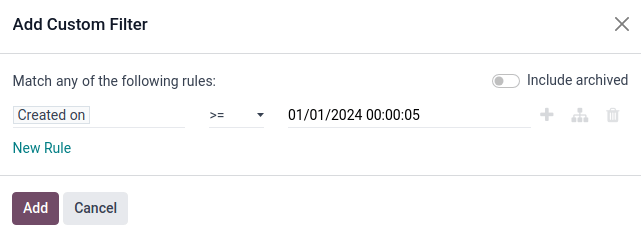
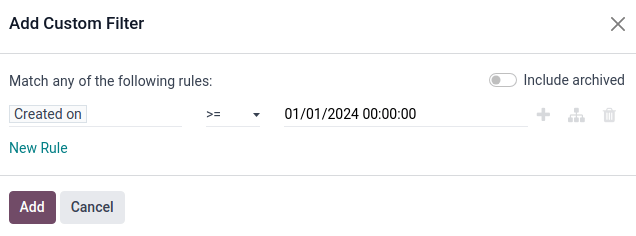
fixed for 17.0

diff --git a/content/applications/sales/crm/track_leads/lead_distribution_report.rst b/content/applications/sales/crm/track_leads/lead_distribution_report.rst
@@ -3,9 +3,8 @@ Lead distribution report
 ========================
 
 A *lead distribution report* can be used to see if active leads are being assigned equitably
-across sales members, view the distribution of good or `quality leads <https://www.odoo.com/
-documentation/17.0/applications/sales/crm/track_leads/quality_leads_report.html>`_, and see how
-frequently each salesperson is receiving (and keeping) leads.
+across sales members. It can also be used to view the distribution of good or :doc:`quality leads
+<quality_leads_report>`, and see how frequently each salesperson is receiving (and keeping) leads.
 
 Lead distribution reports can be run each week to help keep salespeople on track, while
 providing them with ample good leads. These reports can also be used to see whether sales members
@@ -25,25 +24,25 @@ Custom filters can now be added by clicking the :icon:`fa-caret-down` :guilabel:
 icon, to the right of the :guilabel:`Search...` bar, to reveal a drop-down menu of search and filter
 options.
 
-Three columns will be displayed: :guilabel:`Filters`, :guilabel:`Group By`, and
+Three columns are displayed: :guilabel:`Filters`, :guilabel:`Group By`, and
 :guilabel:`Favorites`.
 
 .. image:: lead_distribution_report/filters-dropdown.png
-   :align: center
-   :alt: Clicking the dropdown arrow in the search bar will display filters, groups, and favorites.
+  :align: center
+  :alt: Clicking the dropdown arrow in the search bar will display filters, groups, and favorites.
 
 To begin, navigate to the bottom of the :guilabel:`Filters` column, and click :guilabel:`Add Custom
 Filter`. This opens an :guilabel:`Add Custom Filter` pop-up window, where a custom filter can be
 created.
 
 .. image:: lead_distribution_report/add-custom-filters.png
-   :align: center
-   :alt: The Add Custom Filter pop-up window allows custom filtering rules to be created.
+  :align: center
+  :alt: The Add Custom Filter pop-up window allows custom filtering rules to be created.
 
 Custom filters
 --------------
 
-The following conditions are provided as an example of a *good* but *not comprehensive*
+The following conditions are provided as an example of a *good*, but *not comprehensive*,
 set of rules for finding good leads. These filters should be applied in the order specified to
 achieve a heavily-detailed filter.
 
@@ -76,7 +75,7 @@ the report.
 ~~~~~~~~~~~~~~~~~~~~~
 
 Click the first field, under :guilabel:`Match any of the following rules:`, that has the value
-:guilabel:`Country` in it. A pop-up window appears. In that pop-up window, type `Date` in the
+:guilabel:`Country` in it. A pop-up window appears. In that pop-up window, type `Created on` in the
 :guilabel:`Search...` bar, or scroll to search through the list to locate and select it.
 
 Then, in the second field of the :guilabel:`Add Custom Filter` pop-up window, select :guilabel:`>=`
@@ -86,13 +85,12 @@ in the third, rightmost field.
 The third field on the :guilabel:`Add Custom Filter` pop-up window should contain the earliest date
 leads are selected from.
 
-For example,
-setting `01/01/2024 00:00:00` only includes leads created from, and including, the first day of
-2024.
+For example, setting `01/01/2024 00:00:00` only includes leads created from, and including, the
+first day of 2024.
 
 .. image:: lead_distribution_report/created-on.png
-   :align: center
-   :alt: Add a Created On rule for the start of the year onward.
+  :align: center
+  :alt: Add a Created On rule for the start of the year onward.
 
 .. _team-location:
 
@@ -106,12 +104,23 @@ Selecting this operator filters for any records that contain the words in the th
 field.
 
 In this third field, enter the name of the desired sales team(s). For example, setting `us direct sf
-northam` **only** includes sales teams assigned to the U.S., direct, San Francisco, and North
-America.
+northam` **only** includes sales teams with titles containing *US*, *direct*, *San Francisco*, and
+*North America*.
 
 .. image:: lead_distribution_report/sales-team-location.png
+  :align: center
+  :alt: Use Sales Team to filter the location the lead is associated with.
+
+By adding this new rule, a new line appears at the top of the pop-up menu showing :guilabel:`Match
+any of:` with a :icon:`fa-caret-down` :guilabel:`(down caret)` icon.
+
+Click the icon, then select :guilabel:`all` from the resulting list. This setting causes the filter
+to **only** show records that match all the rules contained inside. This uses the same logic as an
+AND (&) logical operator.
+
+.. image:: lead_distribution_report/any-to-all.png
    :align: center
-   :alt: Use Sales Team to filter the location the lead is associated with.
+   :alt: Click "any of" and select "all of" from the dropd-down menu.
 
 .. _phone-number:
 
@@ -124,80 +133,88 @@ Selecting this operator **only** filters for records that have a phone number as
 lead.
 
 .. image:: lead_distribution_report/phone-set.png
-   :align: center
-   :alt: Report only leads with an associated phone number with the Phone field.
+  :align: center
+  :alt: Report only leads with an associated phone number with the Phone field.
+
+This rule adds only leads with an associated phone number to the report.
 
 .. _active-status:
 
 4. Active status
 ~~~~~~~~~~~~~~~~
 
-Click the :guilabel:`Branch` icon to the right of `Phone is set` line, to add a new rule that
-branches from the rules above.
+Click the :icon:`fa-sitemap` :guilabel:`(Branch)` icon to the right of the `Phone is set` line, to
+add a new rule that branches from the rules above.
 
-Two horizontal sets of fields appear below a line showing :guilabel:`all of:` with a
-:icon:`fa-caret-down` :guilabel:`(down caret)`. Click the down caret, then select
-:guilabel:`any` from the resulting list.
+Two horizontal sets of fields appear below a line showing :guilabel:`any of:` with a
+:icon:`fa-caret-down` :guilabel:`(down caret)` icon. This setting filters for
+records that match **any** of the rules contained inside. This uses the same logic as an OR (|)
+logical operator.
 
 Set the first field to :guilabel:`Active`. Then, select :guilabel:`is set` in the next field.
 
 .. image:: lead_distribution_report/add-branch.png
-   :align: center
-   :alt: Click the second button to the right of phone is set labeled add branch.
+  :align: center
+  :alt: Click the second button to the right of phone is set labeled add branch.
 
-Next, click the :icon:`fa-plus` :guilabel:`New Rule` button next to :guilabel:`Active is set` to
+Next, click the :icon:`fa-plus` :guilabel:`(New Rule)` button next to :guilabel:`Active is set` to
 create a new line of fields beneath it.
 
 Set the first field to :guilabel:`Active`. Then, select :guilabel:`is not set` in the next field.
-This rule will add the activity status of the lead to the report.
 
 .. image:: lead_distribution_report/active-set.png
-   :align: center
-   :alt: Use Active to include active status in the report.
+  :align: center
+  :alt: Use Active to include active status in the report.
+
+This rule adds the activity status of the lead to the report.
 
 .. _referred-by:
 
-1. Referred by
+5. Referred by
 ~~~~~~~~~~~~~~
 
-Click the :guilabel:`Branch` icon to the right of :guilabel:`any of:` field to add a new set of
-rules. These appear as a new line of fields on a separate branch from the rules above. Change
-:guilabel:`all of:` to :guilabel:`any of:`.
+Click the :icon:`fa-plus` :guilabel:`(New Rule)` button next to :guilabel:`Active is not set` to
+create a new line of fields beneath it.
 
 Next, set the first field to :guilabel:`Referred By`. In the second field, select
-:guilabel:`contains` from the drop-down menu. In the last field, type `appointment`. This adds
-any leads that were referred by an appointment.
+:guilabel:`contains` from the drop-down menu. In the last field, type `appointment`.
 
 .. image:: lead_distribution_report/referred-by.png
-   :align: center
-   :alt: Add referred by as a branch to filter appointments.
+  :align: center
+  :alt: Add referred by as a branch to filter appointments.
+
+This rule adds any leads that were referred by an appointment to the report.
 
 .. _source:
 
-1. Source
+6. Source
 ~~~~~~~~~
 
-Click the :icon:`fa-plus` :guilabel:`New Rule` button next to the line for `Referred by
-appointment`. Set the first field to :guilabel:`Source`. Select :guilabel:`contains` from the
-drop-down menu in the second field. Type `livechat` in the third field. This rule adds any leads
-that came from livechat to the report.
+Click the :icon:`fa-plus` :guilabel:`(New Rule)` button next to the line for `Referred by
+appointment`.
+
+Next, set the first field to :guilabel:`Source`. Select :guilabel:`contains` from the
+drop-down menu in the second field. Type `livechat` in the third field.
 
 .. image:: lead_distribution_report/add-source.png
-   :align: center
-   :alt: Adding a rule for source to filter for livechat.
+  :align: center
+  :alt: Adding a rule for source to filter for livechat.
+
+This rule adds any leads that came from livechat to the report.
 
 .. _notes:
 
 7. Notes
 ~~~~~~~~
 
-Click the :icon:`fa-plus` :guilabel:`New Rule` button next to line for `Source contains livechat`.
-Set the first field to :guilabel:`Notes`. Click the second field, and select :guilabel:`contains`
-from the drop-down menu. Type `mrp` in the third field.
+Click the :icon:`fa-plus` :guilabel:`(New Rule)` button next to line for `Source contains livechat`.
 
-Click the :icon:`fa-plus`
-:guilabel:`New Rule` icon next to the line for `Notes contains mrp`, and add a new rule for notes
-containing `stock`. Repeat the process to create new rules containing the following terms:
+Next, set the first field to :guilabel:`Notes`. Click the second field, and select
+:guilabel:`contains` from the drop-down menu. Type `mrp` in the third field.
+
+Click the :icon:`fa-plus` :guilabel:`(New Rule)` icon next to the line for `Notes contains mrp`, and
+add a new rule for notes containing `stock`. Repeat the process to create new rules containing the
+following terms:
 
 #. purchase
 #. plm
@@ -207,24 +224,26 @@ containing `stock`. Repeat the process to create new rules containing the follow
 #. fsm
 
 .. image:: lead_distribution_report/add-notes.png
-   :align: center
-   :alt: Add rules that contain the 8 terms listed above.
+  :align: center
+  :alt: Add rules that contain the 8 terms listed above.
 
-This includes any leads with the above terms in the attached notes to the report.
+This rule includes any leads with the above terms in the attached notes to the report.
 
 .. _tags:
 
 8. Tags
 ~~~~~~~
 
-Click the :icon:`fa-plus` :guilabel:`New Rule` icon next to line for `Notes contains fsm`.
-Set the first field to `Tags`. Select :guilabel:`contains` from the drop-down menu in the second
-field. Then, type `20` in the third field. This adds any leads that are tagged as a size of 5-20 or
-20-50.
+Click the :icon:`fa-plus` :guilabel:`(New Rule)` icon next to line for `Notes contains fsm`.
+
+Next, set the first field to `Tags`. Select :guilabel:`contains` from the drop-down menu in the
+second field. Then, type `20` in the third field.
 
 .. image:: lead_distribution_report/add-tags.png
-   :align: center
-   :alt: Add a rule for "20" to filter size.
+  :align: center
+  :alt: Add a rule for "20" to filter size.
+
+This rule adds any leads that are tagged as a size of 5-20 or 20-50 to the report.
 
 .. _email:
 
@@ -243,20 +262,67 @@ Repeat the previous steps to add rules for the following contents:
 #. yahoo
 
 .. image:: lead_distribution_report/add-email.png
-   :align: center
-   :alt: Add rules to filter out the above four email domains.
+  :align: center
+  :alt: Add rules to filter out the above four email domains.
+
+This rule filters out any undesired email addresses from the report.
 
 .. _salesperson:
 
 10. Salesperson
 ~~~~~~~~~~~~~~~
 
-Click :guilabel:`New rule` to add a new rule. Click the first field, and locate
+Click :guilabel:`New rule` to add a new rule. Click the first field, then locate and select
 :guilabel:`Salesperson`. Click the :icon:`fa-chevron-right` :guilabel:`(right chevron)` button to
 the right. A new list of salespeople attributes appears. Select :guilabel:`Active` from the list.
 In the second field, select :guilabel:`is` from the drop-down menu. In the third drop-down menu,
 select :guilabel:`set`.
 
 .. image:: lead_distribution_report/add-salesperson.png
+  :align: center
+  :alt: Add a salesperson's activity status to ensure an active salesperson is selected.
+
+This rule ensures only leads with an active salesperson are added to the report.
+
+Save the filter settings
+========================
+
+Now that all the rules for the filter are set, click the purple :guilabel:`Confirm` button at the
+bottom of the pop-up menu to save the custom filter and close the pop-up menu.
+
+.. image:: lead_distribution_report/confirm-filter.png
    :align: center
-   :alt: Add a salesperson's activity status to ensure an active salesperson is selected.
+   :alt: Click the confirm button to save the filter.
+
+
+The :guilabel:`Pipeline Analysis` dashboard is now displayed again with each filter rule in the
+:guilabel:`Search...` bar. Click the :icon:`fa-caret-down` :guilabel:`(down caret)` icon, to the
+right of the :guilabel:`Search...` bar, to reveal a drop-down menu of search and filter options.
+
+Scroll to the bottom and click the :guilabel:`Save current search` button. Next, type a name for the
+filter in the text box below. Check the :guilabel:`Shared` checkbox to have the filter shared with
+any user with access to the pipeline. Finally, click the purple :guilabel:`Save` button below to
+save the filter.
+
+The filter will now appear with the name it was given under the :guilabel:`Favorites` section of the
+drop-down menu and can be re-applied by clicking on it.
+
+.. image:: lead_distribution_report/save-filter.png
+   :align: center
+   :alt: Click the save button to save the filter under favorites.
+
+View lead distribution reports
+==============================
+
+From the :guilabel:`Pipeline Analysis` dashboard, apply the filter created above in the
+:guilabel:`Search...` bar if it does not appear in the search already. Next, click the
+:icon:`oi-list-view` :guilabel:`(List view)` button to view all the leads that fit the filter in A
+list format. :icon:`fa-caret-down` :guilabel:`(down caret)` icon to expand the list and view leads.
+
+.. image:: lead_distribution_report/list-view.png
+   :align: center
+   :alt: List view will display all leads in a list format organized by the filter.
+
+
+.. seealso::
+   :doc:`../../../essentials/search`
